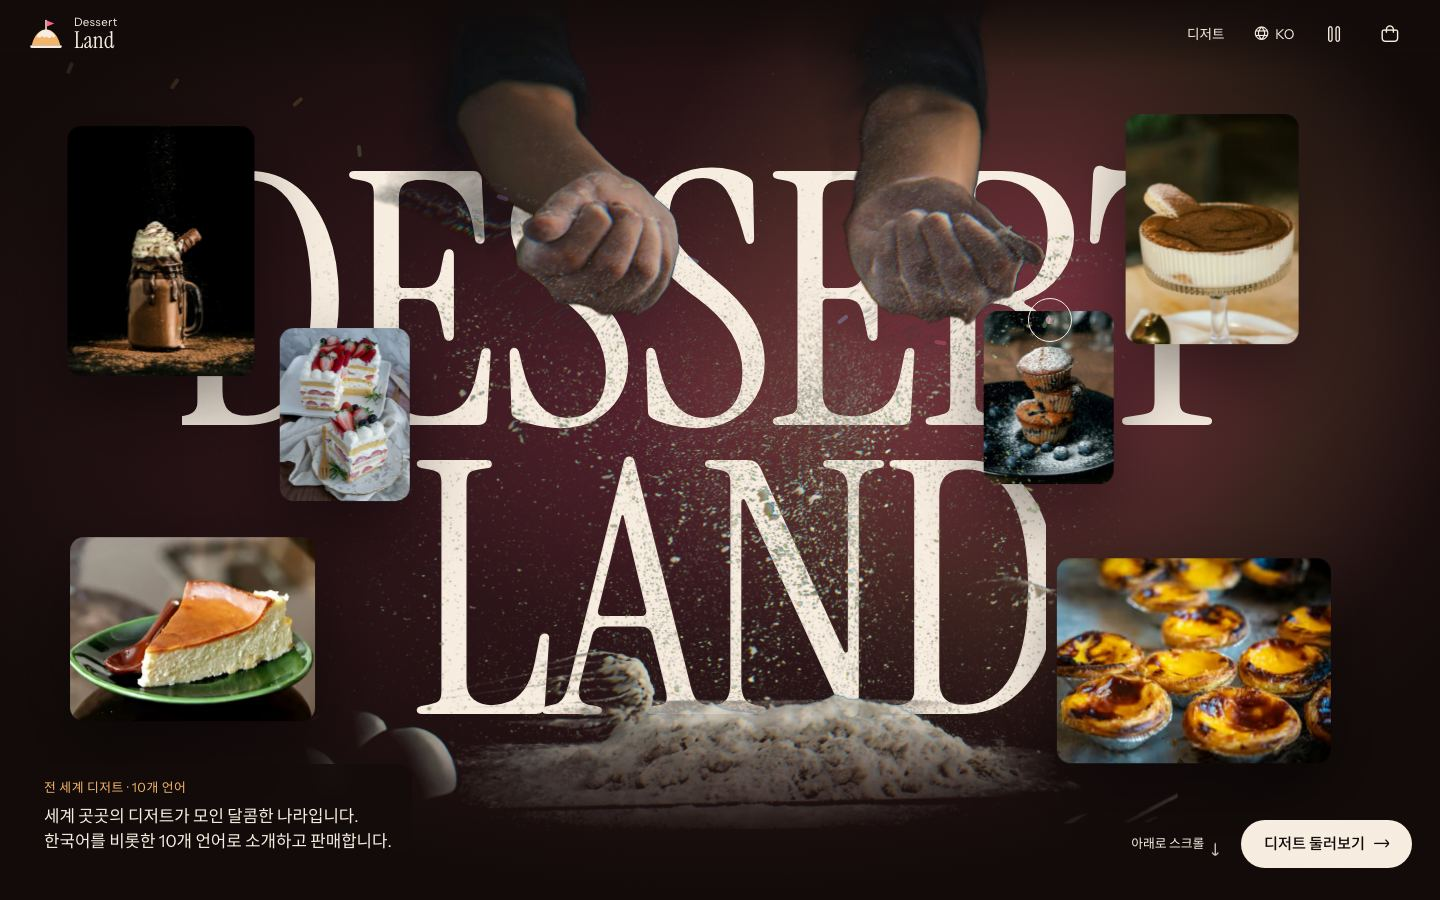
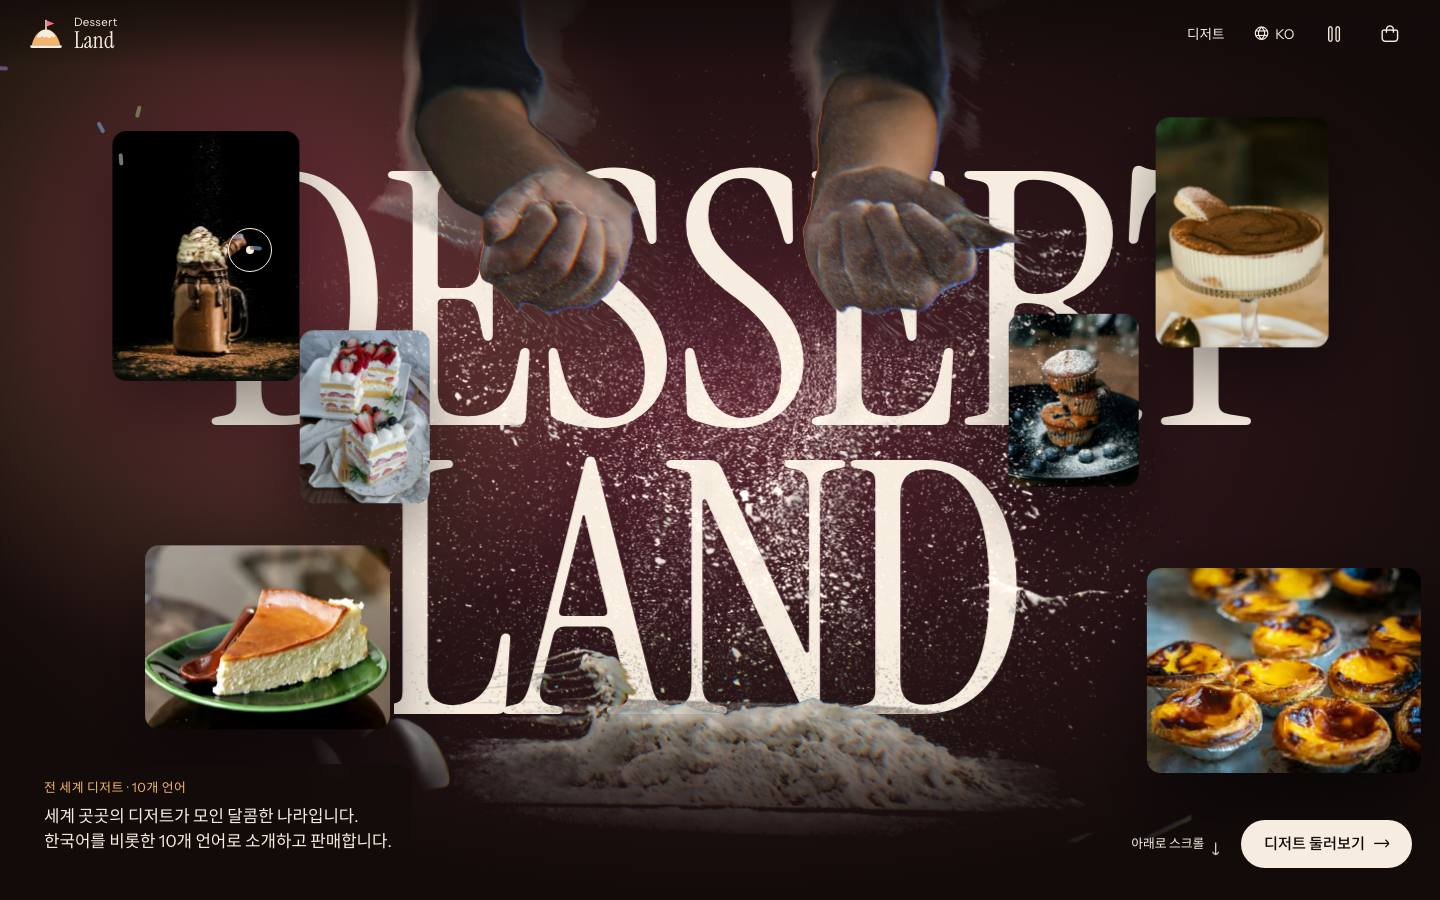
Web Vitals 수집과 번들 분석, 전송량 예산 추가
Vercel Speed Insights로 실사용 성능을 수집하고 pnpm analyze를 추가합니다. 분석 결과에 따라 모션이 없는 페이지의 첫 화면에서 GSAP을 빼고, 터치 기기에서 부드러운 스크롤과 커서 코드를 받지 않게 합니다. 페이지별 전송량 예산을 E2E로 검사합니다.

diff --git a/e2e/performance-budget.spec.ts b/e2e/performance-budget.spec.ts
@@ -1,0 +1,84 @@
+import { gzipSync } from "node:zlib";
+
+import { expect, test, type APIRequestContext } from "@playwright/test";
+
+/**
+ * 첫 화면 HTML이 요구하는 JS의 압축 크기(KB) 상한입니다.
+ * 넘으면 먼저 `pnpm analyze`로 원인을 확인하고, 올려야 한다면 docs/development.md의 기준 수치도 고칩니다.
+ * 링크 프리페치로 나중에 받는 코드는 첫 화면을 막지 않으므로 세지 않습니다.
+ */
+const JS_BUDGET_KB: Record<string, number> = {
+  "/ko": 240,
+  "/ko/shop": 235,
+  "/ko/shop/baklava": 235,
+  "/ko/checkout": 190,
+  "/ko/credits": 185,
+};
+const CSS_BUDGET_KB = 25;
+
+type Asset = { size: number; body: string };
+
+async function loadAssets(
+  request: APIRequestContext,
+  html: string,
+  pattern: RegExp,
+): Promise<Asset[]> {
+  const urls = new Set<string>();
+  for (const [tag, url] of html.matchAll(pattern)) {
+    // nomodule 스크립트는 구형 브라우저용 폴리필이라 지금 브라우저는 받지 않습니다.
+    if (url && !/\bnomodule\b/i.test(tag)) urls.add(url.replaceAll("&amp;", "&"));
+  }
+  return Promise.all(
+    Array.from(urls, async (url) => {
+      const body = await (await request.get(url)).body();
+      return { size: gzipSync(body).length, body: body.toString("utf8") };
+    }),
+  );
+}
+
+const toKb = (assets: Asset[]) =>
+  Math.round(assets.reduce((sum, asset) => sum + asset.size, 0) / 1024);
+
+for (const [path, budget] of Object.entries(JS_BUDGET_KB)) {
+  test(`${path} 첫 화면이 전송량 예산을 지킵니다`, async ({ request }) => {
+    const html = await (await request.get(path)).text();
+    const scripts = await loadAssets(request, html, /<script[^>]*\bsrc="([^"]+\.js[^"]*)"[^>]*>/g);
+    const styles = await loadAssets(
+      request,
+      html,
+      /<link[^>]*rel="stylesheet"[^>]*href="(\/_next[^"]+)"[^>]*>/g,
+    );
+    test.info().annotations.push({
+      type: "size",
+      description: `js ${toKb(scripts)}KB, css ${toKb(styles)}KB`,
+    });
+    expect(toKb(scripts)).toBeLessThanOrEqual(budget);
+    expect(toKb(styles)).toBeLessThanOrEqual(CSS_BUDGET_KB);
+  });
+}
+
+test("모션이 없는 페이지의 첫 화면에는 GSAP이 없습니다", async ({ request }) => {
+  for (const path of ["/ko/credits", "/ko/checkout"]) {
+    const html = await (await request.get(path)).text();
+    const scripts = await loadAssets(request, html, /<script[^>]*\bsrc="([^"]+\.js[^"]*)"[^>]*>/g);
+    expect(scripts.length).toBeGreaterThan(0);
+    expect(scripts.some(({ body }) => body.includes("GreenSock"))).toBe(false);
+  }
+});
+
+test("움직임 코드는 필요한 기기에서만 동작합니다", async ({ page, isMobile }) => {
+  const errors: string[] = [];
+  page.on("pageerror", (error) => errors.push(error.message));
+  await page.goto("/ko");
+  await page.waitForTimeout(3000);
+  await expect(page.locator("html")).toHaveAttribute("data-motion", "on");
+  if (isMobile) {
+    await expect(page.locator("[data-baker] canvas")).toHaveCount(0);
+    await expect(page.locator("html")).not.toHaveClass(/lenis/);
+  } else {
+    await expect(page.locator("[data-baker] canvas")).toHaveCount(1);
+    await expect(page.locator("html")).toHaveClass(/lenis/);
+    await expect(page.locator("html")).toHaveAttribute("data-custom-cursor", "on");
+  }
+  expect(errors).toEqual([]);
+});

diff --git a/src/_app/layouts/LocaleLayout.tsx b/src/_app/layouts/LocaleLayout.tsx
@@ -1,5 +1,6 @@
 import "@/_app/styles/global.css";
 
+import { SpeedInsights } from "@vercel/speed-insights/next";
 import type { Metadata, Viewport } from "next";
 import { Instrument_Sans, Instrument_Serif } from "next/font/google";
 import { notFound } from "next/navigation";
@@ -9,14 +10,14 @@ import type { CSSProperties, ReactNode } from "react";
 import { css } from "styled-system/css";
 
 import { AppProviders } from "@/_app/providers/AppProviders";
+import { DeferredMotion } from "@/_app/providers/DeferredMotion";
+import { MotionAttribute } from "@/_app/providers/MotionAttribute";
 import { SITE_NAME, SITE_URL } from "@/shared/config";
 import { LOCALES, routing } from "@/shared/i18n";
 import { Grain } from "@/shared/ui";
 import { CartDrawer } from "@/widgets/cart-drawer";
-import { CustomCursor } from "@/widgets/custom-cursor";
 import { SiteFooter } from "@/widgets/site-footer";
 import { SiteHeader } from "@/widgets/site-header";
-import { SmoothScroll } from "@/widgets/smooth-scroll";
 
 const display = Instrument_Serif({
   subsets: ["latin", "latin-ext"],
@@ -109,15 +110,16 @@ export default async function LocaleLayout({ children, params }: LocaleLayoutPro
             <a href="#main" className={skipLink}>
               {t("skip")}
             </a>
-            <SmoothScroll />
+            <MotionAttribute />
+            <DeferredMotion />
             <SiteHeader />
             <main id="main" tabIndex={-1}>
               {children}
             </main>
             <SiteFooter />
             <CartDrawer />
-            <CustomCursor />
             <Grain />
+            <SpeedInsights />
           </AppProviders>
         </NextIntlClientProvider>
       </body>

diff --git a/src/_app/providers/DeferredMotion.tsx b/src/_app/providers/DeferredMotion.tsx
@@ -1,0 +1,29 @@
+"use client";
+
+import dynamic from "next/dynamic";
+
+import { useMediaQuery } from "@/shared/lib/motion";
+
+const SmoothScroll = dynamic(
+  () => import("@/widgets/smooth-scroll").then((module) => module.SmoothScroll),
+  { ssr: false },
+);
+const CustomCursor = dynamic(
+  () => import("@/widgets/custom-cursor").then((module) => module.CustomCursor),
+  { ssr: false },
+);
+
+/**
+ * 부드러운 스크롤과 커서는 정밀 포인터에서만 의미가 있습니다.
+ * 첫 화면을 막지 않도록 나중에 받고, 터치 기기에서는 코드 자체를 받지 않습니다.
+ */
+export function DeferredMotion() {
+  const finePointer = useMediaQuery("(hover: hover) and (pointer: fine)");
+  if (!finePointer) return null;
+  return (
+    <>
+      <SmoothScroll />
+      <CustomCursor />
+    </>
+  );
+}

diff --git a/src/widgets/smooth-scroll/SmoothScroll.tsx b/src/widgets/smooth-scroll/SmoothScroll.tsx
@@ -1,19 +1,14 @@
 "use client";
 
 import Lenis from "lenis";
-import { useAtomValue } from "jotai";
 import { useEffect } from "react";
 
-import { gsap, motionPausedAtom, ScrollTrigger, setLenis, useMotionEnabled } from "@/shared/lib/motion";
+import { setLenis, useMotionEnabled } from "@/shared/lib/motion";
+import { ScrollTrigger, gsap } from "@/shared/lib/motion/gsap";
 
-/** Lenis와 ScrollTrigger를 한 박자로 맞추고, 움직임 상태를 html에 표시합니다. */
+/** Lenis와 ScrollTrigger를 한 박자로 맞춥니다. */
 export function SmoothScroll() {
   const enabled = useMotionEnabled();
-  const paused = useAtomValue(motionPausedAtom);
-
-  useEffect(() => {
-    document.documentElement.dataset.motion = enabled ? "on" : "off";
-  }, [enabled, paused]);
 
   useEffect(() => {
     if (!enabled) return;

diff --git a/src/widgets/hero/Hero.tsx b/src/widgets/hero/Hero.tsx
@@ -7,14 +7,15 @@ import { css, cx } from "styled-system/css";
 
 import { getProduct } from "@/entities/product";
 import { Link } from "@/shared/i18n";
-import { gsap, useGsap, useMediaQuery, useMotionEnabled } from "@/shared/lib/motion";
+import { gsap, useGsap } from "@/shared/lib/motion/gsap";
+import { useMediaQuery, useMotionEnabled } from "@/shared/lib/motion";
 import { Icon, buttonRecipe } from "@/shared/ui";
 
 import type { BakerRenderer } from "./baker-renderer";
 
 const CUTOUT = "/images/hero/baker-cutout.webp";
 const DEPTH = "/images/hero/baker-depth.webp";
-const CUTOUT_RATIO = 1800 / 2250;
+const CUTOUT_RATIO = 1000 / 1250;
 
 const FLOATS = [
   { slug: "freakshake", top: "13%", left: "6%", width: "13vw", depth: 0.9, front: false, wide: false },

diff --git a/src/widgets/product-detail/ProductDetail.tsx b/src/widgets/product-detail/ProductDetail.tsx
@@ -10,8 +10,10 @@ import { countryName, formatProductPrice, type Product } from "@/entities/produc
 import { AddToCartButton } from "@/features/add-to-cart";
 import { BuyNowLink } from "@/features/buy-now";
 import { Link } from "@/shared/i18n";
-import { gsap, useGsap, useMediaQuery, useMotionEnabled } from "@/shared/lib/motion";
-import { Icon, QuantityStepper, RevealText } from "@/shared/ui";
+import { gsap, useGsap } from "@/shared/lib/motion/gsap";
+import { useMediaQuery, useMotionEnabled } from "@/shared/lib/motion";
+import { Icon, QuantityStepper } from "@/shared/ui";
+import { RevealText } from "@/shared/ui/reveal-text";
 
 const root = css({ position: "relative", overflow: "clip", minHeight: "100svh" });
 const backdrop = css({

diff --git a/src/widgets/world-tour/WorldTour.tsx b/src/widgets/world-tour/WorldTour.tsx
@@ -7,14 +7,8 @@ import { css } from "styled-system/css";
 
 import { PRODUCTS, countryName, formatProductPrice } from "@/entities/product";
 import { Link } from "@/shared/i18n";
-import {
-  ScrollTrigger,
-  gsap,
-  scrollToY,
-  useGsap,
-  useMediaQuery,
-  useMotionEnabled,
-} from "@/shared/lib/motion";
+import { ScrollTrigger, gsap, useGsap } from "@/shared/lib/motion/gsap";
+import { scrollToY, useMediaQuery, useMotionEnabled } from "@/shared/lib/motion";
 
 const STOPS = PRODUCTS.filter(
   (product, index) => PRODUCTS.findIndex((item) => item.country === product.country) === index,

diff --git a/src/widgets/sweet-trail/SweetTrail.tsx b/src/widgets/sweet-trail/SweetTrail.tsx
@@ -7,8 +7,10 @@ import { css } from "styled-system/css";
 
 import { PRODUCTS } from "@/entities/product";
 import { Link } from "@/shared/i18n";
-import { gsap, useMediaQuery, useMotionEnabled } from "@/shared/lib/motion";
-import { Icon, RevealText, buttonRecipe } from "@/shared/ui";
+import { gsap } from "@/shared/lib/motion/gsap";
+import { useMediaQuery, useMotionEnabled } from "@/shared/lib/motion";
+import { Icon, buttonRecipe } from "@/shared/ui";
+import { RevealText } from "@/shared/ui/reveal-text";
 
 const section = css({
   position: "relative",

diff --git a/src/widgets/site-footer/SiteFooter.tsx b/src/widgets/site-footer/SiteFooter.tsx
@@ -64,7 +64,14 @@ export function SiteFooter() {
         <ul className={list}>
           {LOCALES.map((code) => (
             <li key={code}>
-              <Link href="/" locale={code} lang={code} hrefLang={code} className={link}>
+              <Link
+                href="/"
+                locale={code}
+                lang={code}
+                hrefLang={code}
+                className={link}
+                prefetch={false}
+              >
                 {LOCALE_LABELS[code]}
               </Link>
             </li>

diff --git a/src/widgets/slice-zoom/SliceZoom.tsx b/src/widgets/slice-zoom/SliceZoom.tsx
@@ -6,7 +6,8 @@ import { useRef } from "react";
 import { css } from "styled-system/css";
 
 import { getProduct } from "@/entities/product";
-import { gsap, useGsap, useMotionEnabled } from "@/shared/lib/motion";
+import { gsap, useGsap } from "@/shared/lib/motion/gsap";
+import { useMotionEnabled } from "@/shared/lib/motion";
 
 const wrapper = css({ position: "relative", height: "320vh", zIndex: 2, background: "cocoa.950" });
 const stage = css({ position: "sticky", insetBlockStart: 0, height: "100svh", overflow: "clip" });

diff --git a/src/widgets/category-showcase/CategoryShowcase.tsx b/src/widgets/category-showcase/CategoryShowcase.tsx
@@ -7,7 +7,8 @@ import { css } from "styled-system/css";
 
 import { CATEGORIES, CATEGORY_COVERS, PRODUCTS, getProduct, type Category } from "@/entities/product";
 import { Link } from "@/shared/i18n";
-import { gsap, scrollToY, useGsap, useMotionEnabled } from "@/shared/lib/motion";
+import { gsap, useGsap } from "@/shared/lib/motion/gsap";
+import { scrollToY, useMotionEnabled } from "@/shared/lib/motion";
 import { Icon, buttonRecipe } from "@/shared/ui";
 
 const wrapper = css({

diff --git a/src/shared/ui/reveal-text/RevealText.tsx b/src/shared/ui/reveal-text/RevealText.tsx
@@ -3,7 +3,8 @@
 import { useRef, type ElementType } from "react";
 import { css } from "styled-system/css";
 
-import { gsap, useGsap, useMotionEnabled } from "@/shared/lib/motion";
+import { gsap, useGsap } from "@/shared/lib/motion/gsap";
+import { useMotionEnabled } from "@/shared/lib/motion";
 
 const clip = css({ display: "inline-block", overflow: "clip", verticalAlign: "bottom" });
 const char = css({ display: "inline-block", willChange: "transform" });
